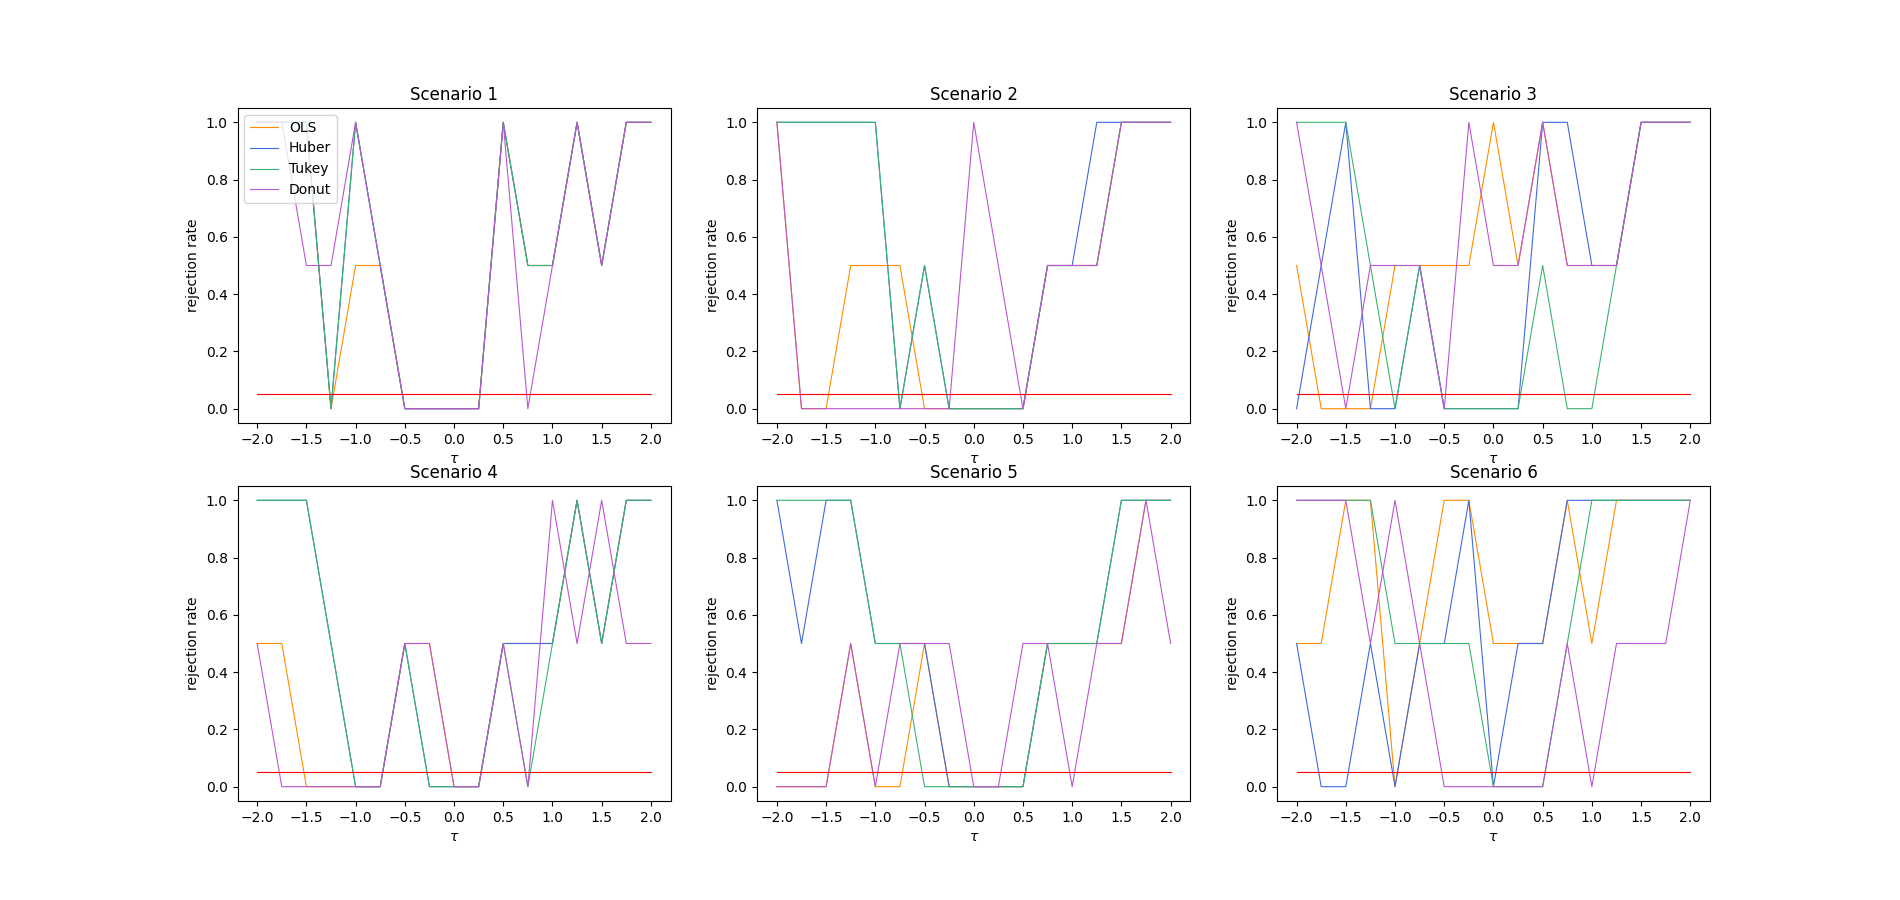
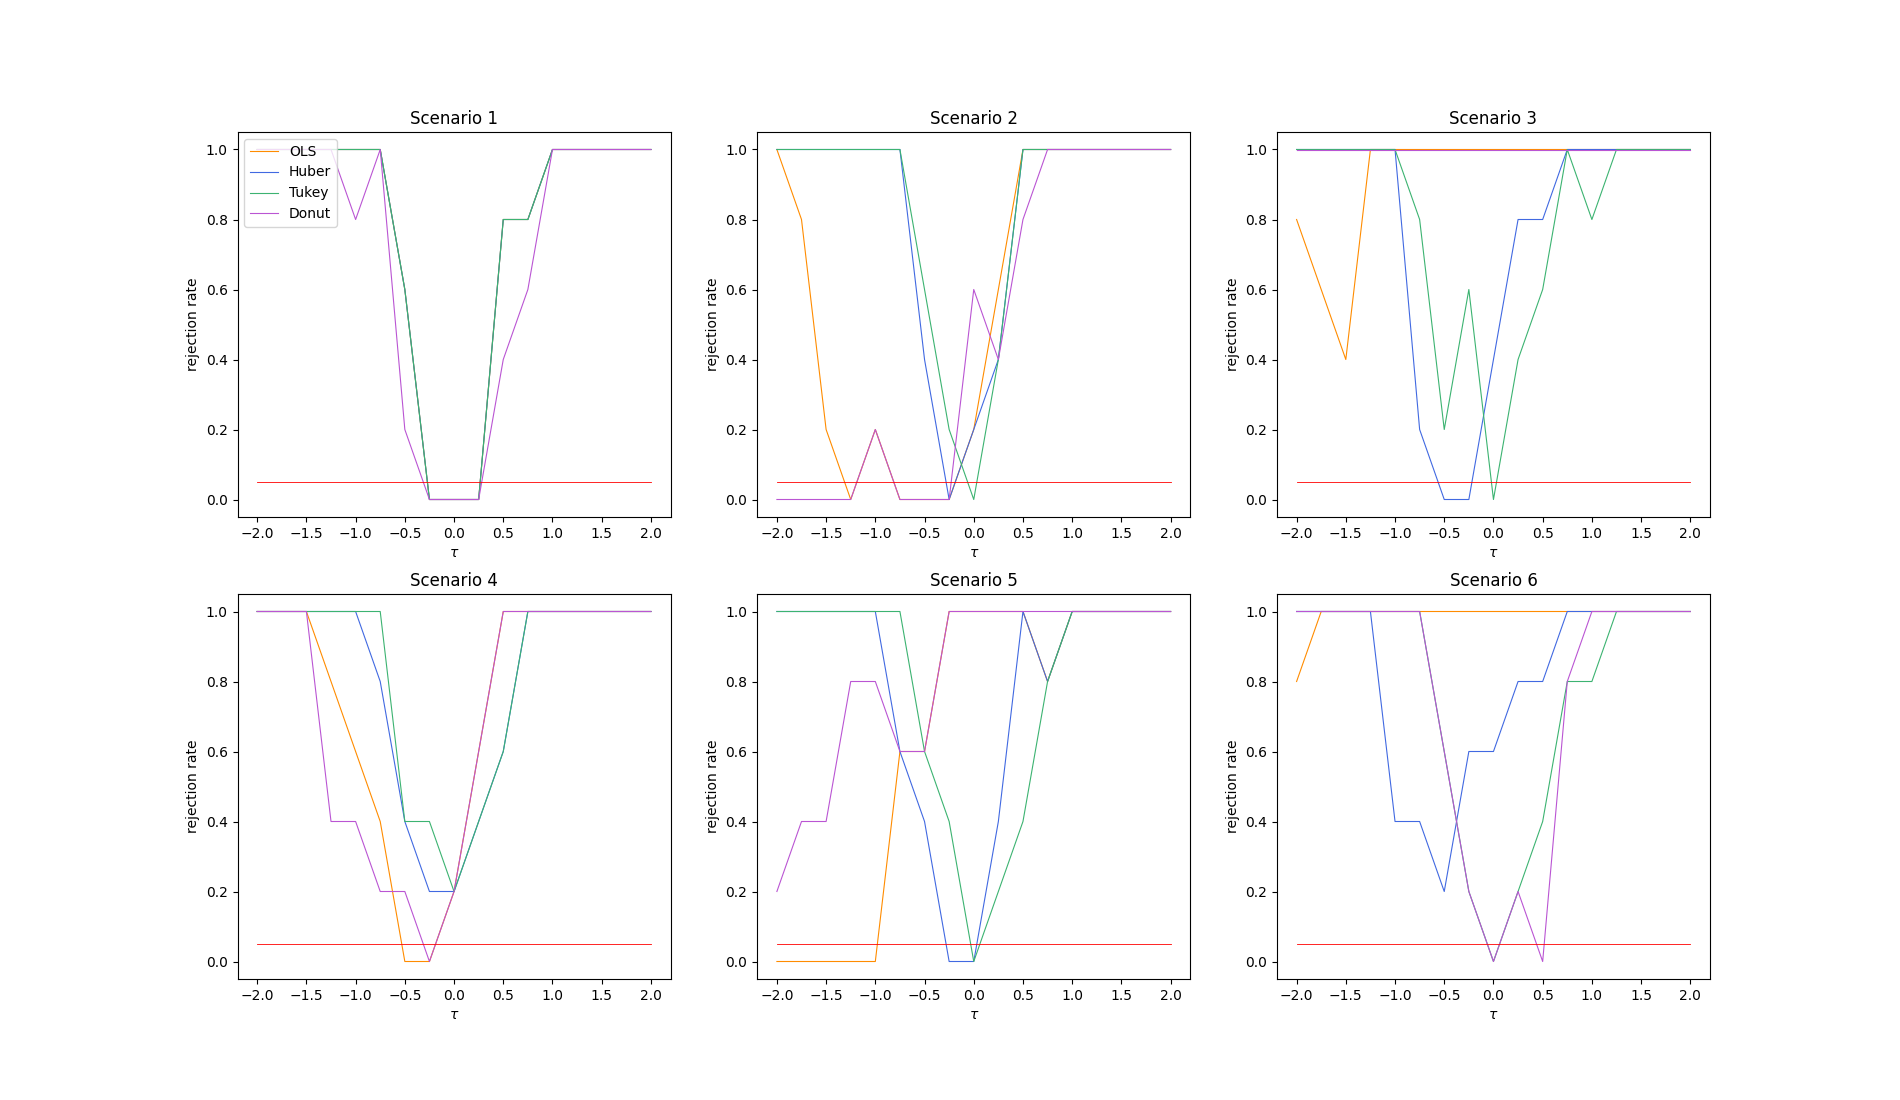
Asymptotic figures done

diff --git a/src/exports.py b/src/exports.py
@@ -188,23 +188,30 @@ def plotSamplesComparison(
 
 def plotPowerFunctionComparison(taus, rejectionRates, saveFig=False, figPath=""):
     # Initialise figure, labels and colors
-    fig, axs = plt.subplots(2, 3, figsize=[19, 9])
+    fig, axs = plt.subplots(2, 3, figsize=[19, 11])
     labels = ["OLS", "Huber", "Tukey", "Donut"]
     colors = ["darkorange", "royalblue", "mediumseagreen", "mediumorchid"]
 
-    # Vertical and horizontal subplot location 
+    # Vertical and horizontal subplot location
     v, h = 0, 0
+
     # For each scenario
     for scenario in range(6):
         # Plot the power functions
         for model in range(len(labels)):
             axs[v][h].plot(
-                taus, rejectionRates[scenario][model], color=colors[model], label=labels[model], linewidth=0.8
+                taus,
+                rejectionRates[scenario][model],
+                color=colors[model],
+                label=labels[model],
+                linewidth=0.8,
             )
-        axs[v][h].plot(taus, 0.05 + np.zeros_like(taus), color="r", linewidth=0.8)
+        axs[v][h].plot(taus, 0.05 + np.zeros_like(taus), color="r", linewidth=0.6)
+
+        # Add axis labels and title
         axs[v][h].set_ylabel("rejection rate")
         axs[v][h].set_xlabel("$τ$")
-        axs[v][h].set_title("Scenario "+ str(1+scenario))
+        axs[v][h].set_title("Scenario " + str(1 + scenario))
 
         # Increment figure location and add lengend
         if scenario == 0:
@@ -219,37 +226,105 @@ def plotPowerFunctionComparison(taus, rejectionRates, saveFig=False, figPath="")
         fig.savefig(figPath)
     else:
         return fig
-    
+
+
 def plotAsymptoticComparison(asymptotics, saveFig=False, figPath=""):
-    ylabels = "bias", "stDev", "rmse", "ciCc", "ciSize", "t1Error", "t2Error"
+    fileLabels = (
+        "bias",
+        "stDev",
+        "rmse",
+        "efficiency",
+        "ciCc",
+        "ciSize",
+        "t1Error",
+        "t2Error",
+    )
+    plotyLabels = (
+        r"Bias($\^τ$)",
+        r"St.dev($\^τ$)",
+        r"RMSE($\^τ$)",
+        "Efficiency relative to Tukey",
+        "Correct coverage of C.I.",
+        "Length of C.I.",
+        "T.I rejection rate",
+        "T.II rejection rate",
+    )
+
+    # For each metric plot asymptotic functions
     for metric in range(7):
-        fig, axs = plt.subplots(2, 3, figsize=[19, 9])
+        # Initialise figure, labels and colors
+        fig, axs = plt.subplots(2, 3, figsize=[19, 11])
         labels = ["OLS", "Huber", "Tukey", "Donut"]
         colors = ["darkorange", "royalblue", "mediumseagreen", "mediumorchid"]
-        j, l = 0, 0
+
+        # Vertical and horizontal subplot location
+        v, h = 0, 0
+
         # For each scenario
         for scenario in range(6):
-            c = 0
             # Plot the asymptotic function
             for model in range(len(labels)):
-                axs[j][l].plot(
-                    asymptotics[0][7], asymptotics[scenario][metric][model], color=colors[model], label=labels[model], linewidth=0.8
+                if (metric==3) & (model == 2):
+                    0
+                else:    
+                    axs[v][h].plot(
+                        asymptotics[0][8],
+                        asymptotics[scenario][metric][model],
+                        color=colors[model],
+                        label=labels[model],
+                        linewidth=0.8,
+                    )
+            # Plot critical line at 0 for bias and rmse
+            if (metric == 0) | (metric == 2):
+                axs[v][h].plot(
+                    asymptotics[0][8],
+                    np.zeros_like(asymptotics[0][8]),
+                    color="r",
+                    linewidth=0.6,
                 )
-            #axs[j][l].plot(taus, 0.05 + np.zeros_like(taus), color="r", linewidth=0.8)
-            axs[j][l].set_ylabel(ylabels[metric])
-            axs[j][l].set_xlabel("n")
-            axs[j][l].set_title("Scenario "+ str(1+scenario))
+            # Plot critical line at 0.05 for type 1 nd 2 errors
+            elif (metric == 6) | (metric == 7):
+                axs[v][h].plot(
+                    asymptotics[0][8],
+                    0.05 + np.zeros_like(asymptotics[0][8]),
+                    color="r",
+                    linewidth=0.6,
+                )
+            # Plot critical line at 0.95 for correct coverage
+            elif (metric == 4):
+                axs[v][h].plot(
+                    asymptotics[0][8],
+                    0.95 + np.zeros_like(asymptotics[0][8]),
+                    color="r",
+                    linewidth=0.6,
+                )
+            # Plot critical line at 1 for relative efficiency
+            elif (metric == 3):
+                axs[v][h].plot(
+                    asymptotics[0][8],
+                    1 + np.zeros_like(asymptotics[0][8]),
+                    color="r",
+                    linewidth=0.6,
+                )
+
+            # Set axis scale to log and add labels and title
+            axs[v][h].set_xscale("log")
+            if metric in [0,1,2,5]:
+                axs[v][h].set_yscale("log")
+            axs[v][h].set_ylabel(plotyLabels[metric])
+            axs[v][h].set_xlabel("number of observations")
+            axs[v][h].set_title("Scenario " + str(1 + scenario))
 
             # Increment figure location and add lengend
             if scenario == 0:
-                axs[j][l].legend(loc="upper left")
+                axs[v][h].legend(loc="upper left")
             if scenario == 2:
-                j = 1
-                l = -1
-            l = l + 1
+                v = 1
+                h = -1
+            h = h + 1
 
         # Save figure
         if saveFig:
-            fig.savefig(figPath)
+            fig.savefig(figPath + "_" + fileLabels[metric] + ".png")
         else:
             return fig

diff --git a/src/simulation.py b/src/simulation.py
@@ -55,6 +55,7 @@ def powerSimulation(
                 asympBias,
                 asympStDev,
                 asympRmse,
+                asympEffi,
                 asympCiCc,
                 asympCiSize,
                 asympT1Error,
@@ -111,6 +112,7 @@ def powerSimulation(
             asympBias,
             asympStDev,
             asympRmse,
+            asympEffi,
             asympCiCc,
             asympCiSize,
             asympT1Error,
@@ -136,7 +138,8 @@ def asymptoticSimulation(
 ):
     nRange = {}
     labels = ["OLS", "Huber", "Tukey", "Donut"]
-    bias, stDev, rmse, ciCc, ciSize, t1Error, t2Error = (
+    bias, stDev, rmse, effi, ciCc, ciSize, t1Error, t2Error = (
+        [{}, {}, {}, {}],
         [{}, {}, {}, {}],
         [{}, {}, {}, {}],
         [{}, {}, {}, {}],
@@ -145,8 +148,8 @@ def asymptoticSimulation(
         [{}, {}, {}, {}],
         [{}, {}, {}, {}],
     )
-    for k in range(2):
-        n = nInit * np.power(1.6, k)
+    for k in range(13):
+        n = int(nInit * np.power(1.6, k - 3))
         nRange = np.append(nRange, n)
         pointEstimation_n, testValues_n, ciValues_n, firstSample_n = simulationDetailed(
             r,
@@ -162,7 +165,7 @@ def asymptoticSimulation(
             outlierMethod,
             nOutliers,
         )
-        if k == 0:
+        if k == 3:
             pointEstimation, testValues, ciValues, firstSample = (
                 pointEstimation_n,
                 testValues_n,
@@ -173,14 +176,18 @@ def asymptoticSimulation(
             bias[m] = np.append(bias[m], pointEstimation_n[labels[m]].mean() - tau)
             stDev[m] = np.append(stDev[m], pointEstimation_n[labels[m]].std())
             rmse[m] = np.append(
-                rmse[m], sm.tools.eval_measures.rmse(pointEstimation_n[labels[m]])
+                rmse[m], sm.tools.eval_measures.rmse(pointEstimation_n[labels[m]], tau)
+            )
+            effi[m] = np.append(
+                effi[m],
+                pointEstimation_n["Tukey"].std() / pointEstimation_n[labels[m]].std(),
             )
             ciCc[m] = np.append(ciCc[m], ciValues_n[0][1][labels[m]].mean())
             ciSize[m] = np.append(ciSize[m], ciValues_n[1][1][labels[m]].mean())
             t1Error[m] = np.append(t1Error[m], testValues_n[0][1][labels[m]].mean())
             t2Error[m] = np.append(t2Error[m], testValues_n[1][1][labels[m]].mean())
 
-    for metric in bias, stDev, rmse, ciCc, ciSize, t1Error, t2Error:
+    for metric in bias, stDev, rmse, effi, ciCc, ciSize, t1Error, t2Error:
         for m in range(4):
             metric[m] = np.delete(metric[m], 0)
     nRange = np.delete(nRange, 0)
@@ -193,6 +200,7 @@ def asymptoticSimulation(
         bias,
         stDev,
         rmse,
+        effi,
         ciCc,
         ciSize,
         t1Error,

diff --git a/dev.py b/dev.py
@@ -44,8 +44,7 @@ import numpy as np
 # simResults = sim.simulations(r, "Basic Linear", n, tau=-1, alpha=0.5, beta=1, cutoff=0)
 # met.analyseSimResults(simResults)
 
-r1, r2, n = 2,10, 25
-
+r1, r2, n = 5, 10, 100
 
 outlierScenarios = (
     "Simple Outside Right",
@@ -59,6 +58,8 @@ outlierScenarios = (
     "Simple Oposite Inside",
     3,
 )
+
+np.random.seed(123456)
 sim.powerSimulations(
     r1,
     "Basic Linear",
@@ -69,7 +70,7 @@ sim.powerSimulations(
     parametersScenarios=outlierScenarios,
     specialTau=-0.5,
 )
-#sim.simulations(
+## sim.simulations(
 #    r2,
 ##    "Basic Linear",
 ##    n,
@@ -78,18 +79,20 @@ sim.powerSimulations(
 ##    beta=1,
 ##    cutoff=0,
 #    parametersScenarios=outlierScenarios,
-#)
-#sim.simulations(
+# )
+# sim.simulations(
 #    r2,
 #    "Basic Linear",
 #    n,
-#    tau=0, 
+#    tau=0,
 #    alpha=0.5,
 #    beta=1,
 #    cutoff=0,
 #    parametersScenarios=outlierScenarios,
-#)
+# )
 
 # point6, test6, confInt6, firstSample6 = simulation(
 #        r, name, n, tau=0, L=40, cutoff=cutoff, b=0.5, outlier=False
 #    )
+
+

diff --git a/src/rrdd.py b/src/rrdd.py
@@ -1,9 +1,9 @@
-'''
+"""
 Code for my bachelor thesis in Econometrics and Economics, 
 Outlier Robust Regression Discontinuity Designs.
 
 Author: Francisco Portilha (479126)
-'''
+"""
 
 # Public libraries
 import numpy as np
@@ -37,6 +37,7 @@ def prepExog(sample, intercept=False, jointFit=False):
         exog = sm.add_constant(exog)
 
     return exog
+
 
 def fit(name, sample, intercept, cutoff=0, jointFit=False):
     """
@@ -85,6 +86,7 @@ def fit(name, sample, intercept, cutoff=0, jointFit=False):
     res = res.fit()
     return res
 
+
 def splitFitRD(name, sample, cutoff=0):
     """
     This method estimates the treatment effects based on RDD estimated by 2 regression
@@ -112,6 +114,7 @@ def splitFitRD(name, sample, cutoff=0):
     params_above = fit(name, sample_above, intercept=True).params
     tau = params_above.iloc[0] - params_below.iloc[0]
     return tau
+
 
 def jointFitRD(name, sample, cutoff=0):
     # Create new column with X*T covariate
